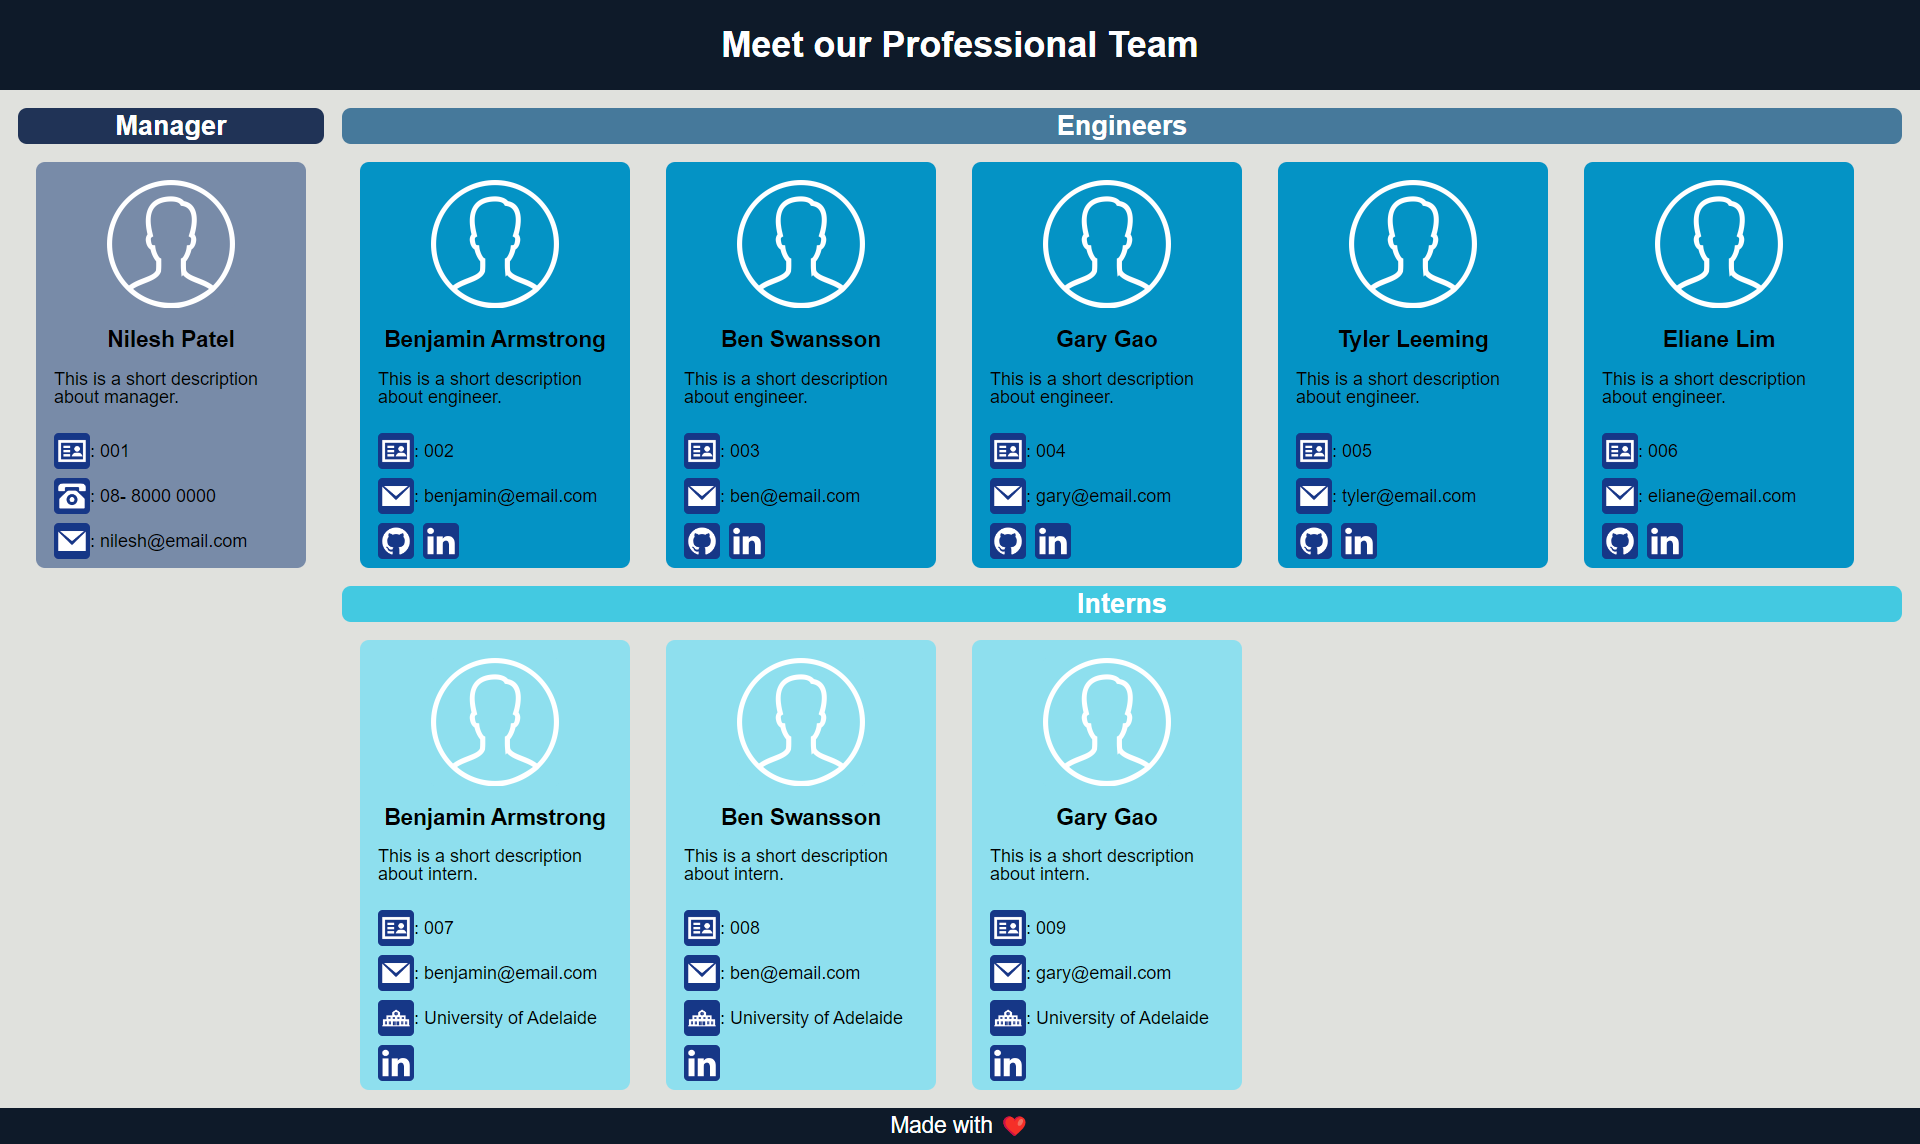
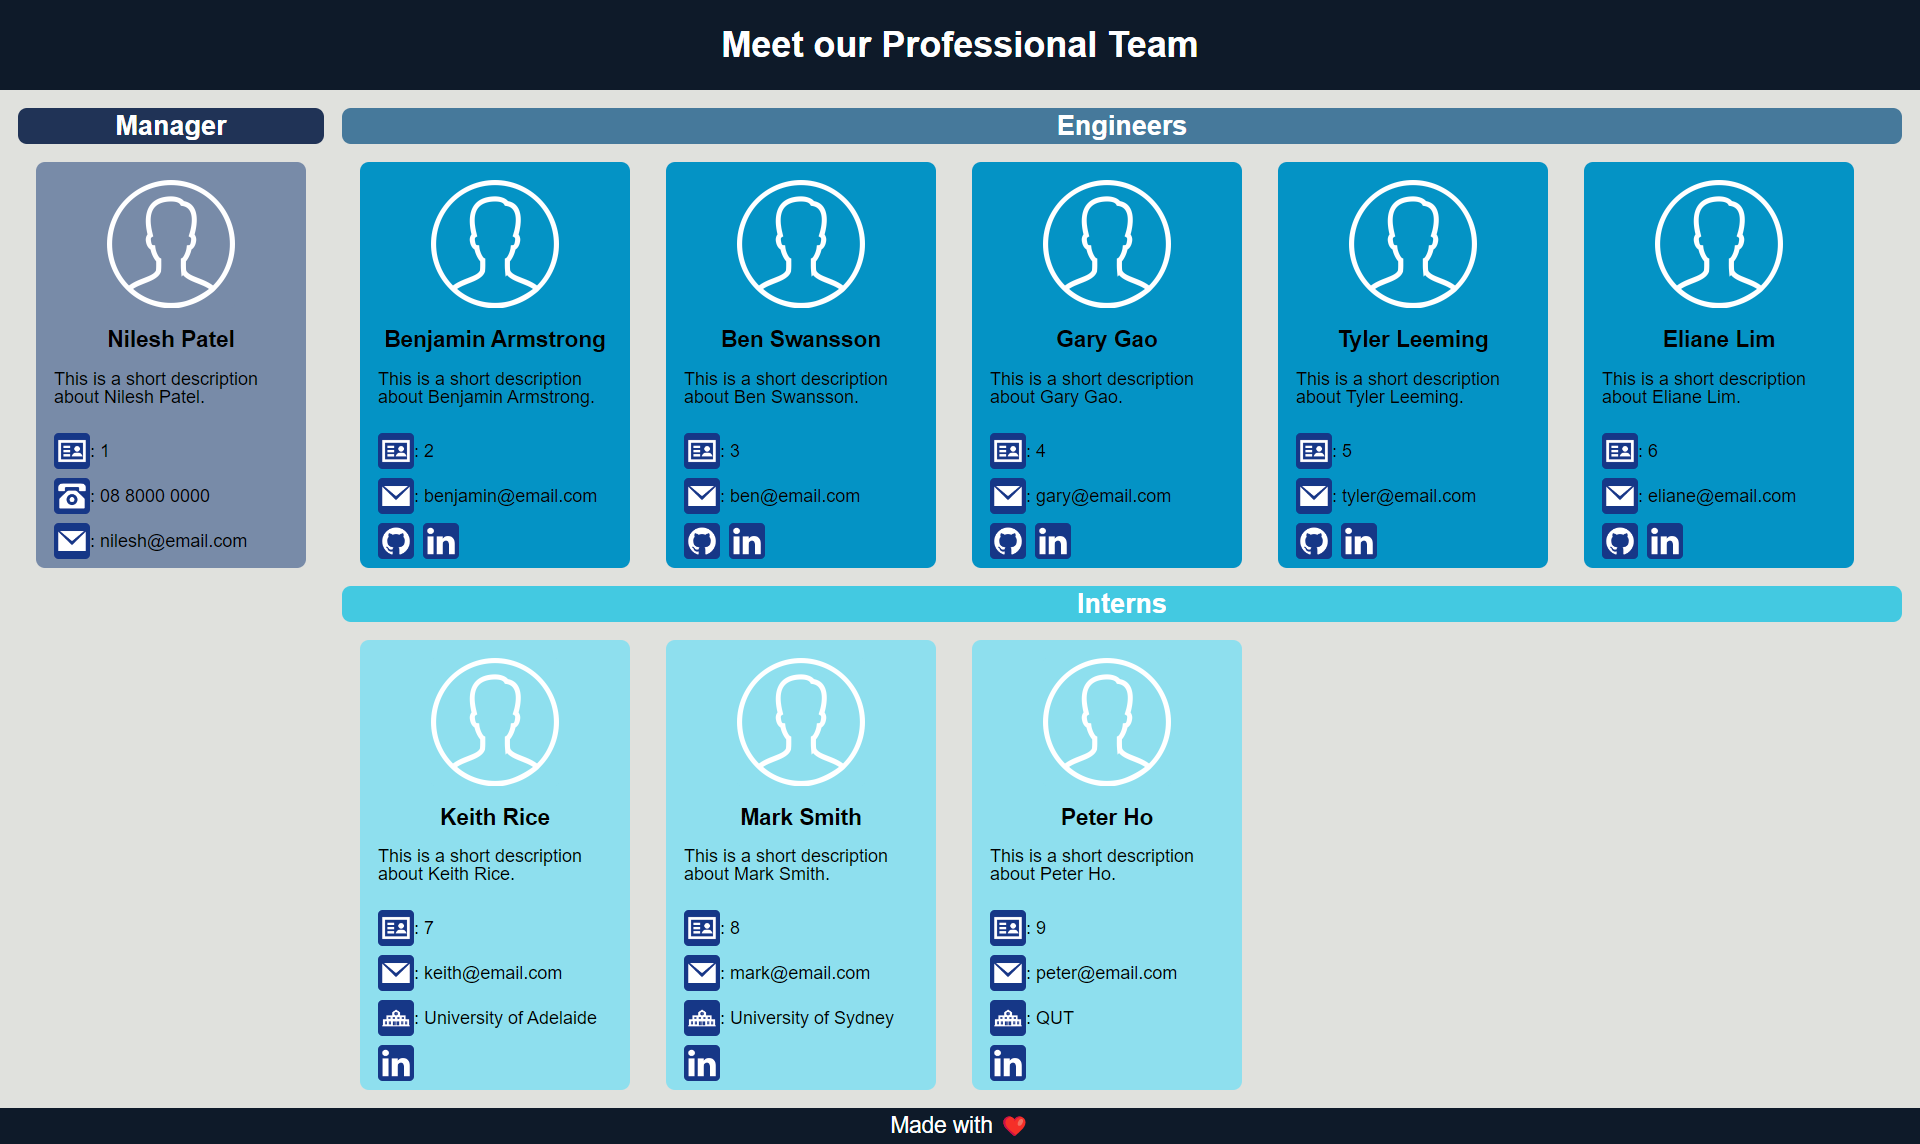
HTML file updated.

diff --git a/dist/index.html b/dist/index.html
@@ -1,87 +1,178 @@
 
-        <!DOCTYPE html>
-        <html lang="en">
-        <head>
-            <meta charset="UTF-8">
-            <meta name="viewport" content="width=device-width, initial-scale=1.0">
-            <link rel="stylesheet" href="../dist/reset.css">
-            <link rel="stylesheet" href="../dist/style.css">
-            <title>Team Profile</title>
-        </head>
-        <body>
-            <header>
-                <h1 class="main-heading">Meet our Professional Team</h1>
-            </header>
-            <main>
-                <div class="content">
-                    
-        <div class="left">
-            <h3 class="label label-manager">Manager</h3>
-            <div class="card manager">
-                <div class="card-heading">
-                    <img class="photo" src="../images/Person.png" alt="Manager photo">
-                    <h2 class="employee-name">sdfsd</h2>
-                    <p>dfsdfsdf</p>
-                </div>
-                <div class="card-body">
-                    <div><img src="../images/Id.png" alt="ID Sign">: sdfsdf</div>
-                    <div><img src="../images/Telephone.png" alt="Phone Sign">: sdfsdfdddddddddddddddsdfsd</div>
-                    <div><img src="../images/Email.png" alt="Email Sign"><a class="text-decoration" href="mailto:sdfsdfs">: sdfsdfs</a></div>
+<!DOCTYPE html>
+<html lang="en">
+<head>
+    <meta charset="UTF-8">
+    <meta name="viewport" content="width=device-width, initial-scale=1.0">
+    <link rel="stylesheet" href="../dist/reset.css">
+    <link rel="stylesheet" href="../dist/style.css">
+    <title>Team Profile</title>
+</head>
+<body>
+    <header>
+        <h1 class="main-heading">Meet our Professional Team</h1>
+    </header>
+
+    <main>
+        <div class="content">               
+            <div class="left">
+                <h3 class="label label-manager">Manager</h3>
+                <div class="card manager">
+                    <div class="card-heading">
+                        <img class="photo" src="../images/Person.png" alt="Manager photo">
+                        <h2 class="employee-name">Nilesh Patel</h2>
+                        <p>This is a short description about Nilesh Patel.</p>
+                    </div>
+                    <div class="card-body">
+                        <div><img src="../images/Id.png" alt="ID Sign">: 1</div>
+                        <div><img src="../images/Telephone.png" alt="Phone Sign">: 08 8000 0000</div>
+                        <div><img src="../images/Email.png" alt="Email Sign"><a class="text-decoration" href="mailto:nilesh@email.com">: nilesh@email.com</a></div>
+                    </div>
                 </div>
             </div>
-        </div>
-        
-                    <div class="right">
-                        <div>
-                            
-        
-        <h3 class="label label-engineers">Engineers</h3>
-        <div class="engineers">
-        
-        <div class="card engineer">
-            <div class="card-heading">
-                <img class="photo" src="../images/Person.png" alt="Engineer photo">
-                <h2 class="employee-name">sdfsdfsfsd</h2>
-                <p>sdfsdfs</p>
-            </div>
-            <div class="card-body">
-                <div><img src="../images/Id.png" alt="ID Sign">: dfsdfsd</div>
-                <div><img src="../images/Email.png" alt="Email Sign"><a href="mailto:dfsdfsd">: dfsdfsd</a></div>
+            
+            <div class="right">
                 <div>
-                    <div><a href="https://github.com/sdfsdf" target="_blank"><img class="github" src="../images/GitHub.png" alt="GitHub Logo"></a></div>
-                    <div><a href="https://sdfsdfsd" target="_blank"><img class="linked-in" src="../images/LinkedIn.png" alt="LinkedIn Logo"></a></div>
-                </div>
-            </div>
-        </div>
-        </div>
+
+                    <h3 class="label label-engineers">Engineers</h3>
+                    <div class="engineers">
+                    
+                        <div class="card engineer">
+                            <div class="card-heading">
+                                <img class="photo" src="../images/Person.png" alt="Engineer photo">
+                                <h2 class="employee-name">Benjamin Armstrong</h2>
+                                <p>This is a short description about Benjamin Armstrong.</p>
+                            </div>
+                            <div class="card-body">
+                                <div><img src="../images/Id.png" alt="ID Sign">: 2</div>
+                                <div><img src="../images/Email.png" alt="Email Sign"><a href="mailto:benjamin@email.com">: benjamin@email.com</a></div>
+                                <div>
+                                    <div><a href="https://github.com/NileshPatel83" target="_blank"><img class="github" src="../images/GitHub.png" alt="GitHub Logo"></a></div>
+                                    <div><a href="https://www.linkedin.com" target="_blank"><img class="linked-in" src="../images/LinkedIn.png" alt="LinkedIn Logo"></a></div>
+                                </div>
+                            </div>
                         </div>
-                        <div>
-                            
-        <h3 class="label label-interns">Interns</h3>
-        <div class="interns">
-        
-        <div class="card intern">
-            <div class="card-heading">
-                <img class="photo" src="../images/Person.png" alt="Engineer photo">
-                <h2 class="employee-name">sfsdfaadfad</h2>
-                <p>dfadfa</p>
-            </div>
-            <div class="card-body">
-                <div><img  src="../images/Id.png" alt="ID Sign">: sdfadfa</div>
-                <div><img  src="../images/Email.png" alt="Email Sign"><a class="text-decoration" href="mailto:dfadfa">: dfadfa</a></div>
-                <div><img  src="../images/School.png" alt="School Logo">: adfadsadsfa</a></div>
-                <div><a href="https://sdfsdfsdf" target="_blank"><img class="linked-in" src="../images/LinkedIn.png" alt="LinkedIn Logo"></a></div>
-            </div>
-        </div>
-        </div>
+                        
+                        <div class="card engineer">
+                            <div class="card-heading">
+                                <img class="photo" src="../images/Person.png" alt="Engineer photo">
+                                <h2 class="employee-name">Ben Swansson</h2>
+                                <p>This is a short description about Ben Swansson.</p>
+                            </div>
+                            <div class="card-body">
+                                <div><img src="../images/Id.png" alt="ID Sign">: 3</div>
+                                <div><img src="../images/Email.png" alt="Email Sign"><a href="mailto:ben@email.com">: ben@email.com</a></div>
+                                <div>
+                                    <div><a href="https://github.com/NileshPatel83" target="_blank"><img class="github" src="../images/GitHub.png" alt="GitHub Logo"></a></div>
+                                    <div><a href="https://www.linkedin.com" target="_blank"><img class="linked-in" src="../images/LinkedIn.png" alt="LinkedIn Logo"></a></div>
+                                </div>
+                            </div>
+                        </div>
+                        
+                        <div class="card engineer">
+                            <div class="card-heading">
+                                <img class="photo" src="../images/Person.png" alt="Engineer photo">
+                                <h2 class="employee-name">Gary Gao</h2>
+                                <p>This is a short description about Gary Gao.</p>
+                            </div>
+                            <div class="card-body">
+                                <div><img src="../images/Id.png" alt="ID Sign">: 4</div>
+                                <div><img src="../images/Email.png" alt="Email Sign"><a href="mailto:gary@email.com">: gary@email.com</a></div>
+                                <div>
+                                    <div><a href="https://github.com/NileshPatel83" target="_blank"><img class="github" src="../images/GitHub.png" alt="GitHub Logo"></a></div>
+                                    <div><a href="https://www.linkedin.com" target="_blank"><img class="linked-in" src="../images/LinkedIn.png" alt="LinkedIn Logo"></a></div>
+                                </div>
+                            </div>
+                        </div>
+                        
+                        <div class="card engineer">
+                            <div class="card-heading">
+                                <img class="photo" src="../images/Person.png" alt="Engineer photo">
+                                <h2 class="employee-name">Tyler Leeming</h2>
+                                <p>This is a short description about Tyler Leeming.</p>
+                            </div>
+                            <div class="card-body">
+                                <div><img src="../images/Id.png" alt="ID Sign">: 5</div>
+                                <div><img src="../images/Email.png" alt="Email Sign"><a href="mailto:tyler@email.com">: tyler@email.com</a></div>
+                                <div>
+                                    <div><a href="https://github.com/NileshPatel83" target="_blank"><img class="github" src="../images/GitHub.png" alt="GitHub Logo"></a></div>
+                                    <div><a href="https://www.linkedin.com" target="_blank"><img class="linked-in" src="../images/LinkedIn.png" alt="LinkedIn Logo"></a></div>
+                                </div>
+                            </div>
+                        </div>
+                        
+                        <div class="card engineer">
+                            <div class="card-heading">
+                                <img class="photo" src="../images/Person.png" alt="Engineer photo">
+                                <h2 class="employee-name">Eliane Lim</h2>
+                                <p>This is a short description about Eliane Lim.</p>
+                            </div>
+                            <div class="card-body">
+                                <div><img src="../images/Id.png" alt="ID Sign">: 6</div>
+                                <div><img src="../images/Email.png" alt="Email Sign"><a href="mailto:eliane@email.com">: eliane@email.com</a></div>
+                                <div>
+                                    <div><a href="https://github.com/NileshPatel83" target="_blank"><img class="github" src="../images/GitHub.png" alt="GitHub Logo"></a></div>
+                                    <div><a href="https://www.linkedin.com" target="_blank"><img class="linked-in" src="../images/LinkedIn.png" alt="LinkedIn Logo"></a></div>
+                                </div>
+                            </div>
                         </div>
                     </div>
                 </div>
-            </main>
-        
-            <footer>
-                <div>Made with ❤</div>
-            </footer>
-        </body>
-        </html>
+
+                <div>            
+                    <h3 class="label label-interns">Interns</h3>
+                    <div class="interns">
+                    
+                        <div class="card intern">
+                            <div class="card-heading">
+                                <img class="photo" src="../images/Person.png" alt="Engineer photo">
+                                <h2 class="employee-name">Keith Rice</h2>
+                                <p>This is a short description about Keith Rice.</p>
+                            </div>
+                            <div class="card-body">
+                                <div><img  src="../images/Id.png" alt="ID Sign">: 7</div>
+                                <div><img  src="../images/Email.png" alt="Email Sign"><a class="text-decoration" href="mailto:keith@email.com">: keith@email.com</a></div>
+                                <div><img  src="../images/School.png" alt="School Logo">: University of Adelaide</a></div>
+                                <div><a href="https://www.linkedin.com" target="_blank"><img class="linked-in" src="../images/LinkedIn.png" alt="LinkedIn Logo"></a></div>
+                            </div>
+                        </div>
+                        
+                        <div class="card intern">
+                            <div class="card-heading">
+                                <img class="photo" src="../images/Person.png" alt="Engineer photo">
+                                <h2 class="employee-name">Mark Smith</h2>
+                                <p>This is a short description about Mark Smith.</p>
+                            </div>
+                            <div class="card-body">
+                                <div><img  src="../images/Id.png" alt="ID Sign">: 8</div>
+                                <div><img  src="../images/Email.png" alt="Email Sign"><a class="text-decoration" href="mailto:mark@email.com">: mark@email.com</a></div>
+                                <div><img  src="../images/School.png" alt="School Logo">: University of Sydney</a></div>
+                                <div><a href="https://www.linkedin.com" target="_blank"><img class="linked-in" src="../images/LinkedIn.png" alt="LinkedIn Logo"></a></div>
+                            </div>
+                        </div>
+                        
+                        <div class="card intern">
+                            <div class="card-heading">
+                                <img class="photo" src="../images/Person.png" alt="Engineer photo">
+                                <h2 class="employee-name">Peter Ho</h2>
+                                <p>This is a short description about Peter Ho.</p>
+                            </div>
+                            <div class="card-body">
+                                <div><img  src="../images/Id.png" alt="ID Sign">: 9</div>
+                                <div><img  src="../images/Email.png" alt="Email Sign"><a class="text-decoration" href="mailto:peter@email.com">: peter@email.com</a></div>
+                                <div><img  src="../images/School.png" alt="School Logo">: QUT</a></div>
+                                <div><a href="https://www.linkedin.com" target="_blank"><img class="linked-in" src="../images/LinkedIn.png" alt="LinkedIn Logo"></a></div>
+                            </div>
+                        </div>
+                    </div>
+                </div>
+            </div>
+        </div>
+    </main>
+
+    <footer>
+        <div>Made with ❤</div>
+    </footer>
+</body>
+</html>
         
